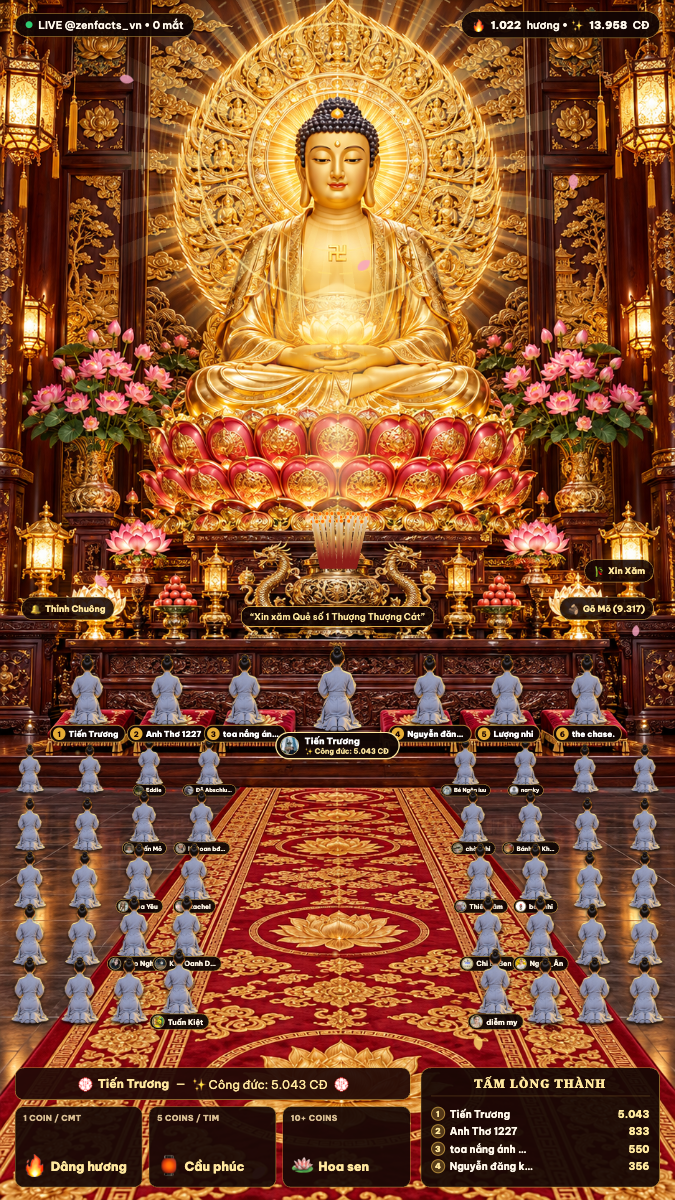
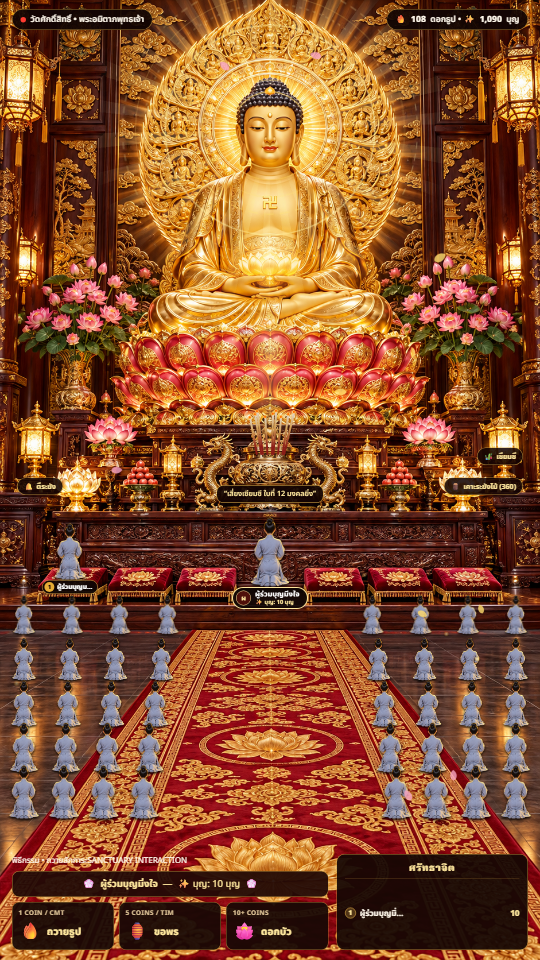
Retake demo screenshots in Thai; remove original author's default TikTok channel

diff --git a/server.js b/server.js
@@ -274,7 +274,7 @@ const DEFAULT_STATE = {
   tiktok: {
     connected: false,
     connecting: false,
-    username: 'zenfacts_vn',
+    username: '',
     roomId: null,
     viewerCount: 0,
     lastError: null
@@ -1271,8 +1271,8 @@ server.listen(PORT, () => {
 
   // Visual/browser audits can opt out of external live connections.
   if (process.env.DISABLE_TIKTOK_AUTOCONNECT !== '1') {
-    // เชื่อมต่อ @zenfacts_vn อัตโนมัติเมื่อเริ่มเซิร์ฟเวอร์
-    const defaultChannel = process.env.TIKTOK_USER || state.tiktok?.username || 'zenfacts_vn';
+    // เชื่อมต่ออัตโนมัติเมื่อกำหนด TIKTOK_USER หรือเคยเชื่อมต่อไว้
+    const defaultChannel = process.env.TIKTOK_USER || state.tiktok?.username || '';
     if (defaultChannel) {
       connectTikTokLive(defaultChannel).catch((err) => {
         console.warn(`[Auto-Connect @${defaultChannel}] ยังเชื่อมต่อไม่ได้ทันที:`, err.message);

diff --git a/public/index.html b/public/index.html
@@ -166,7 +166,7 @@
                 <div class="gift-coin-tag">10+ COINS</div>
                 <div class="gift-card-body">
                   <span class="gift-emoji">🪷</span>
-                  <span class="gift-title">Hoa sen</span>
+                  <span class="gift-title">ดอกบัว</span>
                 </div>
               </div>
             </div>
@@ -243,7 +243,7 @@
       <div class="dock-section">
         <div class="dock-section-title">📡 เชื่อมต่อห้อง TikTok LIVE</div>
         <div class="dock-input-row">
-          <input type="text" id="inputTikTokUser" class="dock-input" value="@zenfacts_vn" placeholder="ใส่ @username หรือลิงก์ TikTok Live..." />
+          <input type="text" id="inputTikTokUser" class="dock-input" value="" placeholder="ใส่ @username หรือลิงก์ TikTok Live..." />
           <button class="dock-btn gold" id="btnConnectTikTok">เชื่อมต่อ</button>
         </div>
         <button class="dock-btn" id="btnToggleAutoSim">

diff --git a/public/admin.html b/public/admin.html
@@ -234,7 +234,7 @@
       const res = await fetch('/api/state');
       const st = await res.json();
       document.getElementById('statusBanner').textContent =
-        `ธูปที่จุดแล้ว: ${st.totalIncense} | บุญรวม: ${st.totalMerit} | ZeroTTS: ${st.tts?.status} (เสียง: ${st.tts?.voice})`;
+        `ธูปที่จุดแล้ว: ${st.totalIncense} | บุญรวม: ${st.totalMerit} | TTS: ${st.tts?.status} (เสียง: ${st.tts?.voice})`;
     }
     refreshStatus();
     setInterval(refreshStatus, 4000);

diff --git a/README.md b/README.md
@@ -128,7 +128,7 @@ curl -X POST http://localhost:3000/rpc \
     "id": 3,
     "method": "live.connect",
     "params": {
-      "username": "@zenfacts_vn"
+      "username": "@your_tiktok_username"
     }
   }'
 ```
